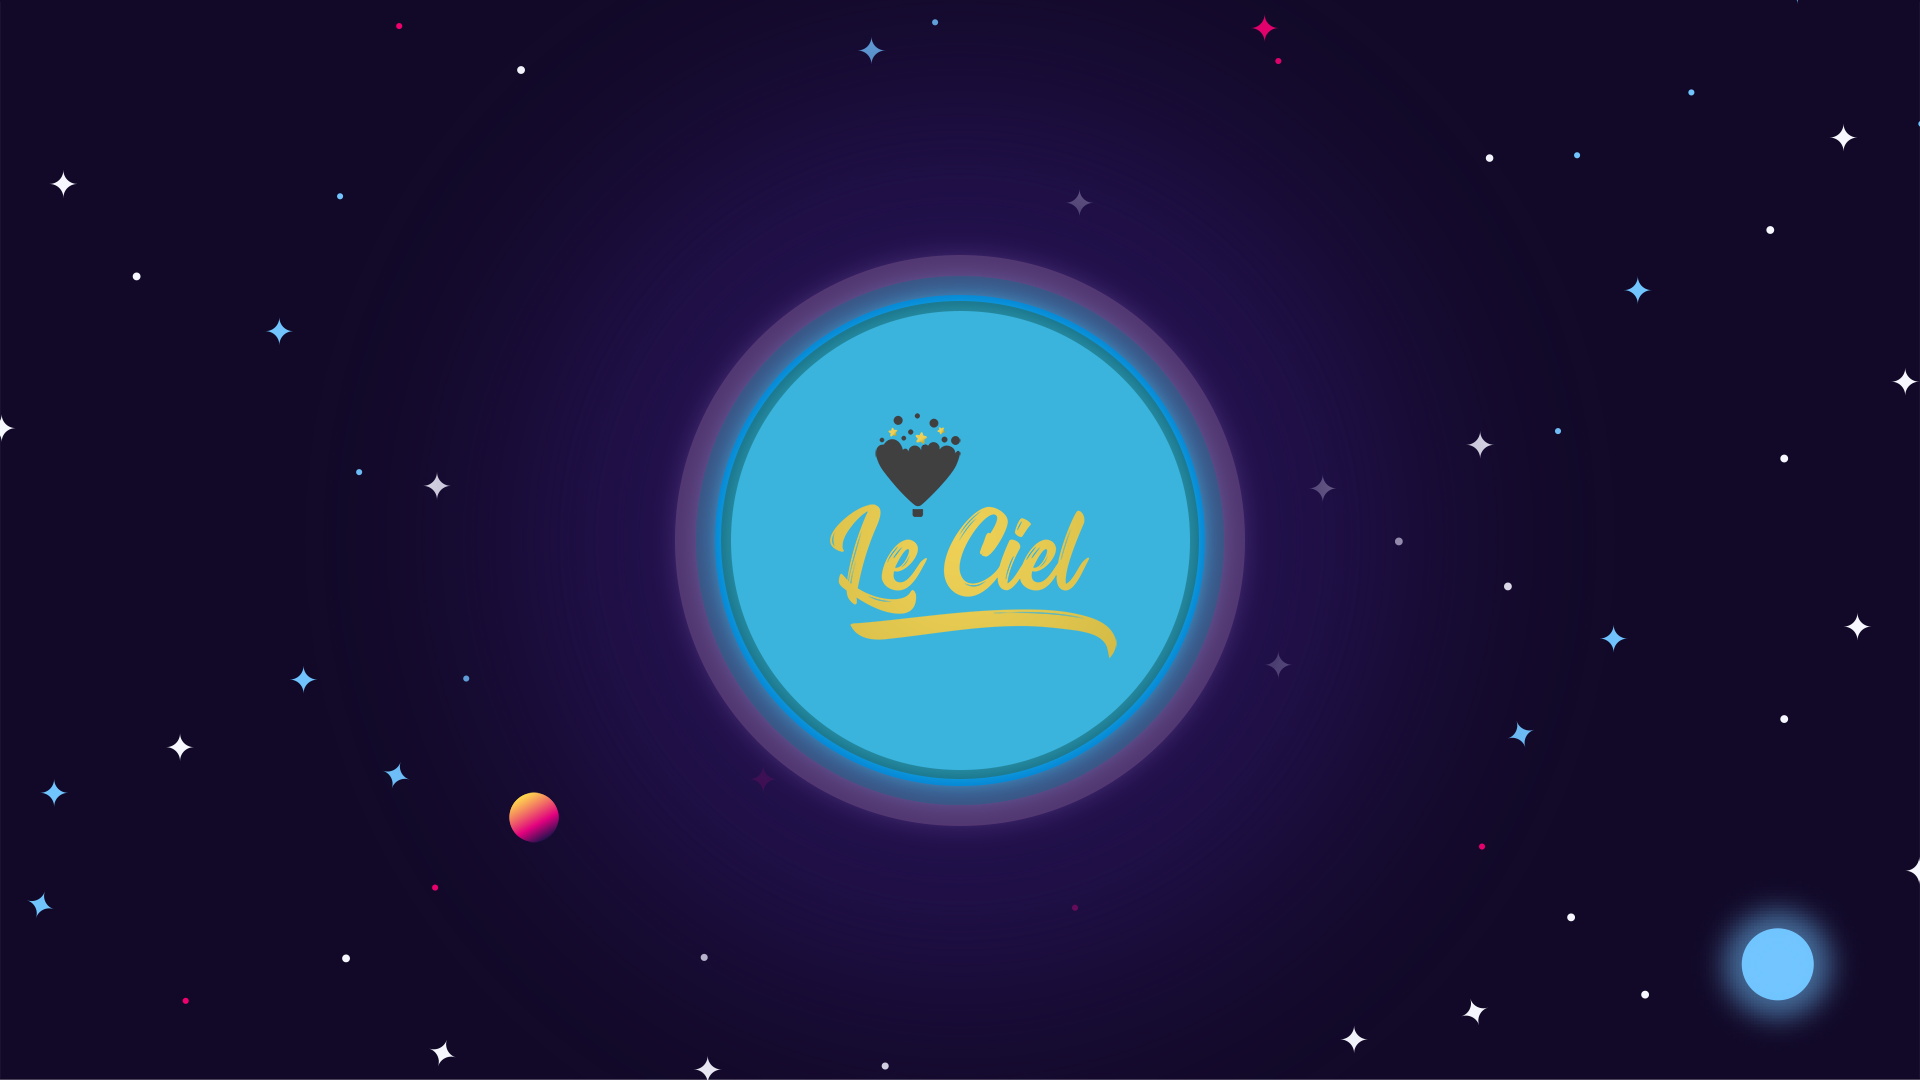
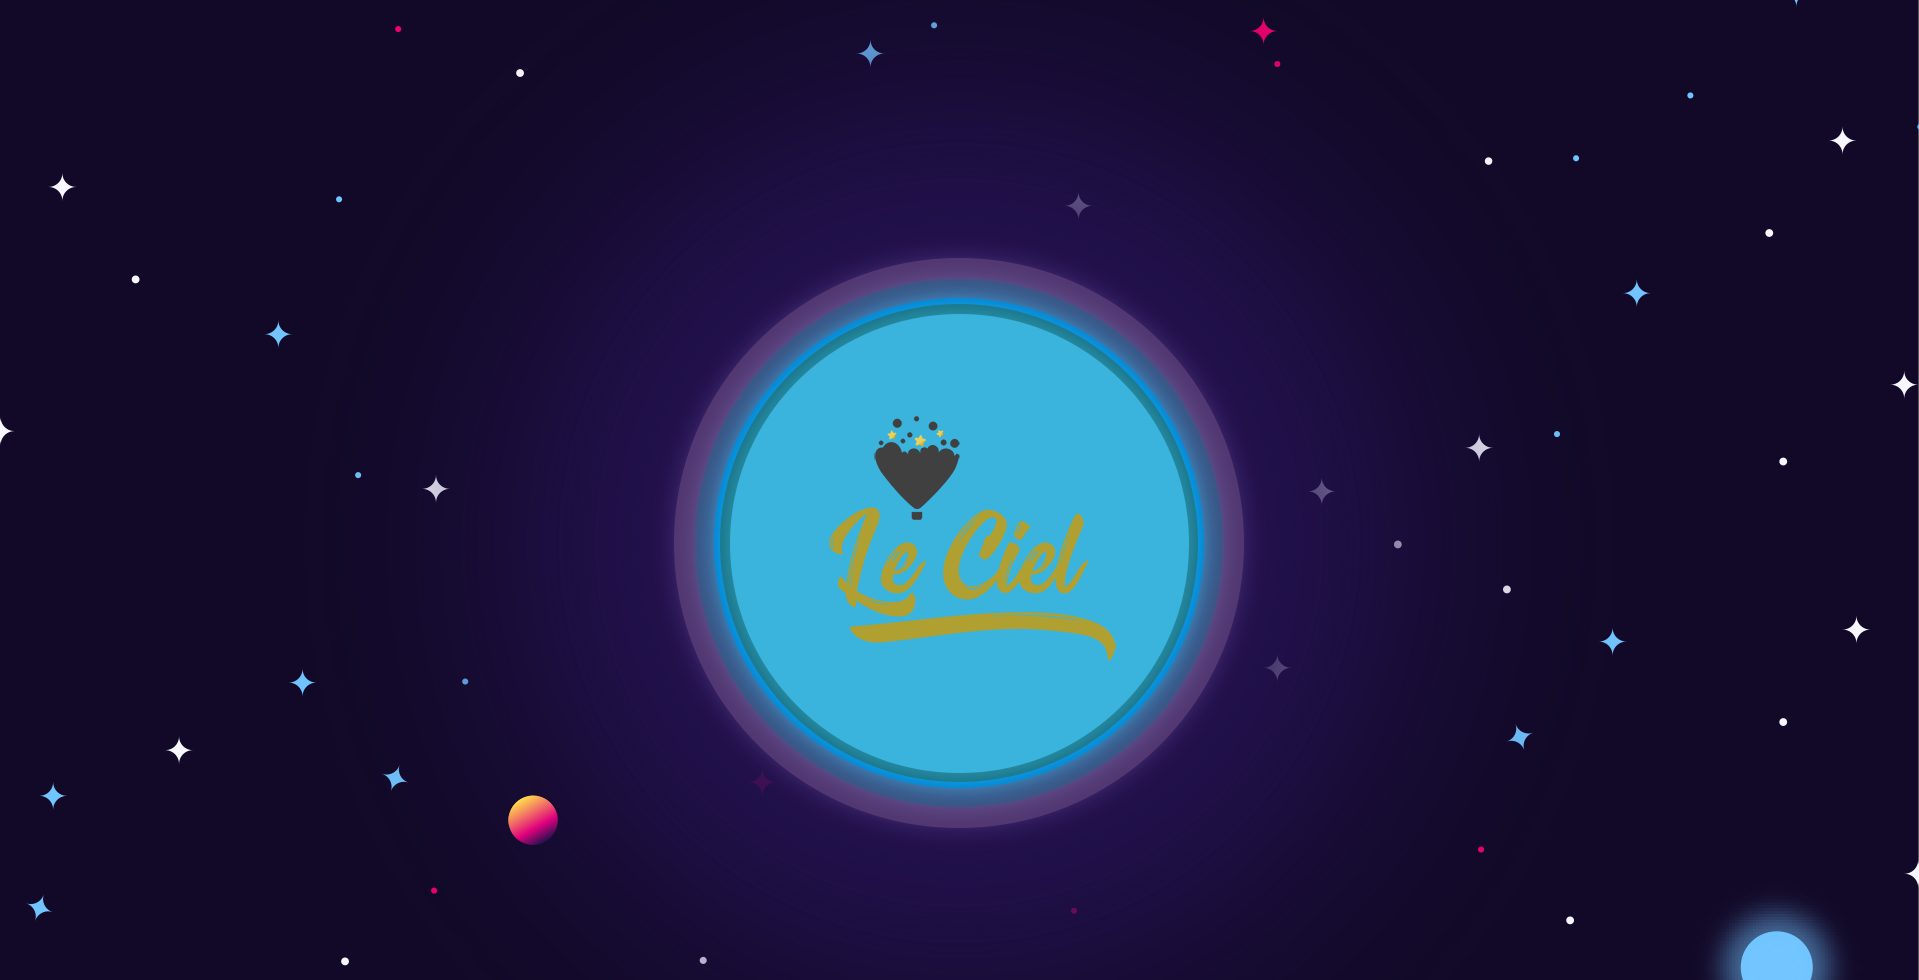
Add files via upload

diff --git a/index.html b/index.html
@@ -17,7 +17,7 @@
 </head>
 <title>
 </title>
-<body>
+<body background="BG.png">
 <div class="container-fluid">
  <div class="row">
   <div class="menu">
@@ -43,7 +43,7 @@
     <div class="scrollhome">
     <button href="#register" class="scrollbtn1 scrollbtn "></button>
     </div>
-    <img src="MainBanner.png" alt="Not Available" class="img-responsive" id="homeimg" style="min-height:100vh " />
+    
     </div>
  
   
@@ -54,25 +54,27 @@
 <!-- BEGIN # BOOTSNIP INFO -->
 
 <div class="container-fluid">
-<div class="row" id="register_page" style="height: 100vh">
+<div class="row" id="register_page" style="height: 100vh;margin-top: 100%;">
 
 <div >
-  <div id="register" style="text-align: center; height: 20vh; margin-top: 100px; "><div  style="font-weight: 50; height: 20%; font-family: 'Verdana', serif; font-size:3em; color: tomato">Registration coming soon!
+  <div id="register" style=" height: 20vh; ">
+      <div  style=" text-align:center; font-weight: 300; height: 20%; font-family: 'Verdana'; font-size:2em; color: white">Registration coming soon!
+      </div>
   </div>
-</div>
 
 	<div  >
 		<footer style="height: 70vh;  text-align: center; " id="contact">
 		  <div class="con">
-		  <p style="font-size:30px !important; ">contact:123454567
+		  <p style="font-size:30px; color: white !important; ">
+        contact:123454567
 		  <br>email:email@gmail.com
       	 	 </p>
-		</div>
+	  	</div>
 		</footer>
-	</div>
-
-</div> 
+  	</div>
+  </div> 
 </div>
+
 <script type="text/javascript" src="js/menu.js"></script>
 <script src="https://code.jquery.com/ui/1.12.1/jquery-ui.js"
   integrity="sha256-T0Vest3yCU7pafRw9r+settMBX6JkKN06dqBnpQ8d30="

diff --git a/css/menu.css b/css/menu.css
@@ -59,9 +59,8 @@ style.css:256
 	z-index:1001;
 	width: 100%;
 	height: 100%;
-	
-	 background:rgba(255,255,255,0.6) ;
-  
+
+	background:rgba(18,9,40,0) ;
   
 	display: none;
 
@@ -79,7 +78,8 @@ style.css:256
   float: left;
 
   height: 100%;
-  background-color:white;
+  background-color:rgba(18,9,40,0.8);
+
 }
 /*Box animation*/
 #menu-half
@@ -93,9 +93,7 @@ style.css:256
 {
   height: 50vh;
   
-  
-  
-  background-color: #edf3ff;
+  background-color: white;
   margin: 0px !important;
 
   
@@ -150,12 +148,9 @@ style.css:256
 .boxes
 {
   height: 100vh;
-  
-  
-  
-  background-color: #edf3ff;
-  margin: 0px !important;
 
+  background-color: white;
+  margin: 0px !important;
   
 }
 
@@ -167,7 +162,7 @@ style.css:256
   position: relative;
   background: none;
   border: none;
-  color: tomato;
+  color: white;
   font-size: 18px;
   cursor: pointer;
   margin: 20px 30px;
@@ -183,7 +178,7 @@ style.css:256
   height: 2px;
   position: absolute;
   transition: all 0.2s linear;
-  background: tomato;
+  background: white;
 }
 
 .span::before, .span::after{
@@ -192,7 +187,7 @@ style.css:256
   height:0;
   position: absolute;
   transition: all 0.2s linear;
-  background: tomato;
+  background: white;
 }
 .menu-text > button:hover::before,.menu-text > button:hover::after{
   width: 100%;
@@ -262,7 +257,7 @@ style.css:256
   left: 18px;
   right: 40px;
   height: 3px;
-  background: red;
+  background: white;
 }
 
 .c-hamburger #span-hamburger::before,
@@ -272,7 +267,7 @@ style.css:256
   left: 0;
   width: 100%;
   height: 3px;
-  background-color: red;
+  background-color: white;
   content: "";
 }
 

diff --git a/css/content.css b/css/content.css
@@ -2,7 +2,13 @@
 @import url(http://fonts.googleapis.com/css?family=Roboto);
 
 body {
-    font-family: 'Roboto', sans-serif;
+
+font-family: 'Roboto', sans-serif;
+width: 100%;
+height: 3238px;
+background-size: cover;
+background-repeat: no-repeat;
+background-position-x:center;
 }
 
 #login-modal .modal-dialog {
@@ -207,13 +213,8 @@ margin-bottom: 3%;
 }
 }
 
-footer
-{
- 
-
-  
-background-color: #fff;
- 
+footer{
+    background-color: transparent;
 }
 
 
@@ -234,7 +235,7 @@ background-color: #fff;
     height: 100%;
 }
 .con{
-    height: 80%; top:30; width: 50%; margin:10px;  box-shadow: 5px 5px 5px grey;
+    height: 80%; top:30; width: 50%; margin:10px;background-color: rgba(0,0,0,0.2);
 }
 @media(max-width:768px )
 {
